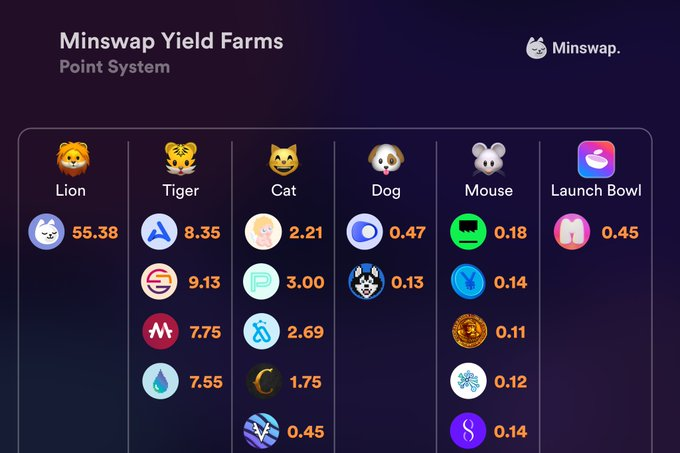
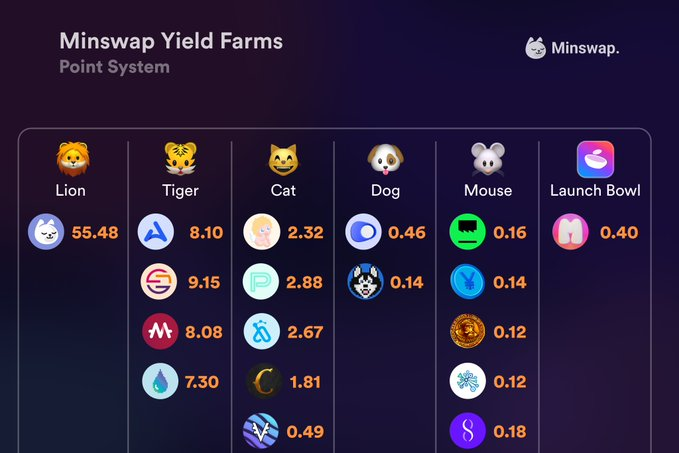
GitBook: [#79] No subject

diff --git a/yield-farming/farms-allocation-and-governance/historical-min-farm-rebalances.md b/yield-farming/farms-allocation-and-governance/historical-min-farm-rebalances.md
@@ -30,6 +30,10 @@
 
 **7th Farm Rebalance:** on August 10th 2022 new Farm Allocations were the following:
 
+![](<../../.gitbook/assets/image (4) (2).png>)
+
+**8th Farm Rebalance:** on August 25th 2022 new Farm Allocations were the following:
+
 ![](<../../.gitbook/assets/image (4).png>)
 
 
